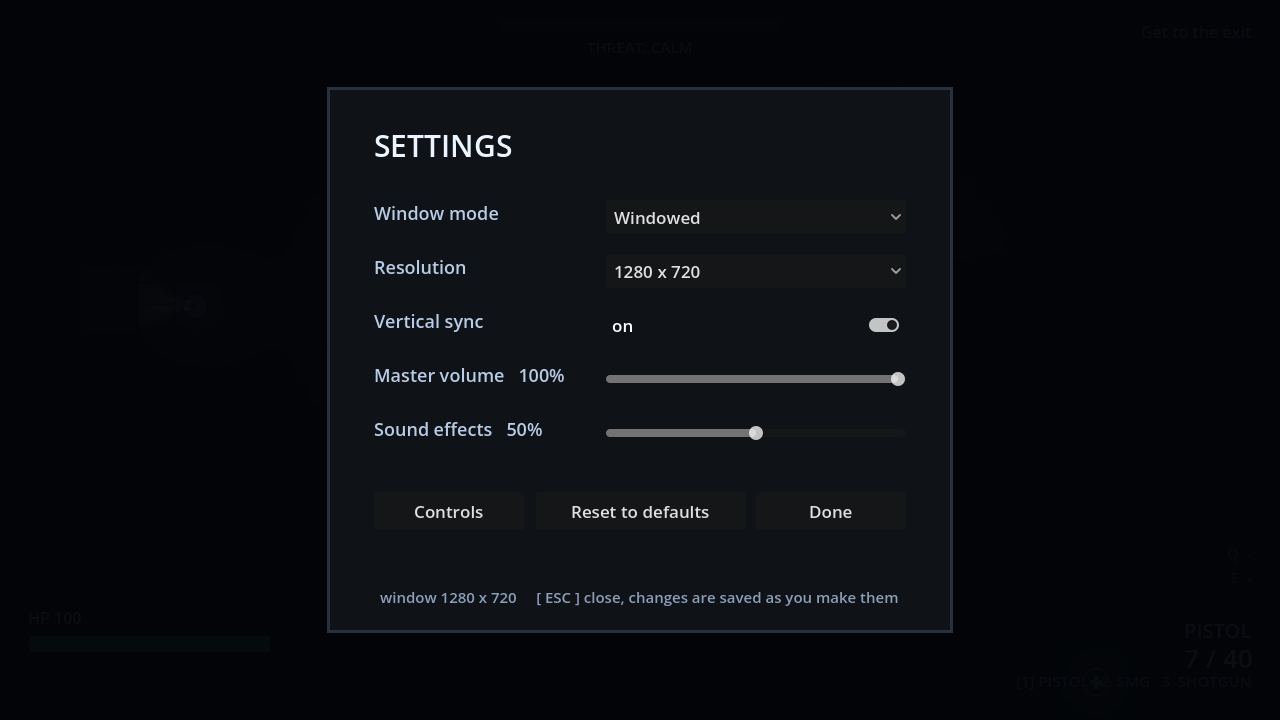
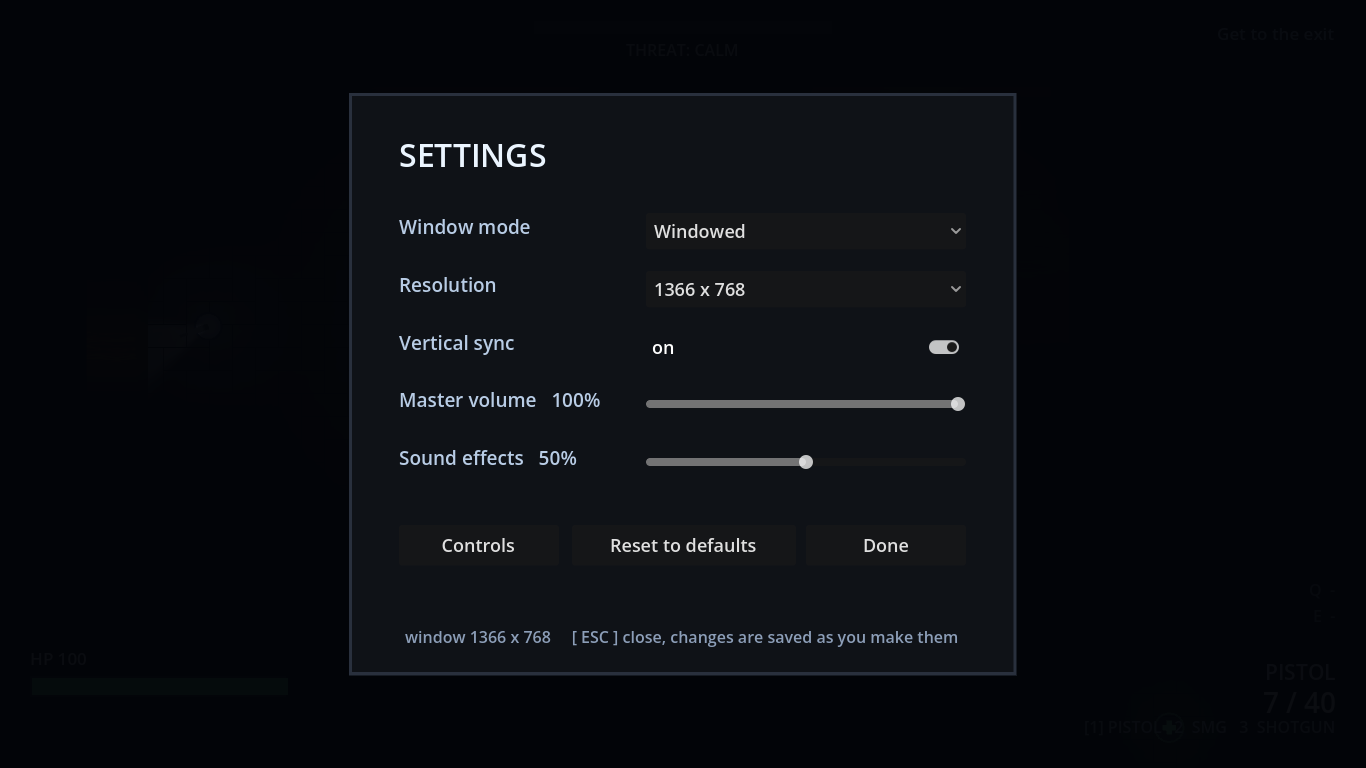
pause screen resizing fix

diff --git a/docs/DESIGN_NOTES.md b/docs/DESIGN_NOTES.md
@@ -255,6 +255,30 @@ Also worth knowing:
   handing the object back to the array or into a typed local. `_exit_tree` had the same shape.
   `--probe=door_freed_actor` kills an enemy mid-swing and asserts no dead instance is left behind; on the
   old code it reproduces the three reported errors.
+- **Sibling order is draw order, so a rebuild must not append over an open overlay.** The in-game
+  settings menu is a sibling of the HUD's `Root` control, and the title screen's menus are siblings of
+  its background. Both rebuilt their content with `add_child()`, which appends: changing resolution
+  from inside the settings menu (or just resizing) put the new root -- and the pause overlay inside it
+  -- *above* the settings panel, and on the title the opaque background covered it completely. The HUD
+  keeps `Root` at index 0 (`move_child(_root, 0)`), and the title raises any overlay it kept to the last
+  child after rebuilding. `--probe=ui_layers` asserts both, with a screenshot of each case.
+- **A layout scale derived from height does not move anything placed in pixels.** The HUD scales from
+  the window *height* alone, and the pause overlay's title and stats are anchored to the centre, so they
+  follow a resize -- but the pause buttons are a `MenuList` positioned in pixels, and they used a fixed
+  reference x (480) that only happened to be centred on a 1280-wide window. A width-only resize also
+  skipped the HUD rebuild entirely, because the scale had not changed. The menu is now placed from the
+  viewport centre (`viewport.x / scale / 2`), and any size change rebuilds. Rule: anything positioned in
+  pixels must derive its position from the viewport on every rebuild, and the rebuild cannot be gated on
+  the scale if the scale ignores one axis. `--probe=pause_resize` checks 16:9, a width-only change and
+  two odd aspects; on the old guard the width-only case is off by exactly half the added width.
+- **A signal handler must not free the control that emitted it.** The resolution dropdown emits
+  `item_selected`; its handler changes the window, which fires `size_changed` *synchronously*, and the
+  settings menu's resize handler rebuilt the panel -- freeing the dropdown while it was still emitting.
+  Godot reports "Object was freed or unreferenced while a signal is being emitted from it", which is a
+  potential crash, not just noise. The rebuild is deferred to `_process` (`_resize_pending`), which is
+  also why any size change now rebuilds, not only one that changes the scale. `--probe=settings_resize`
+  drives the dropdown's own signal; on the old code it reports `emitting button survived=false` and the
+  engine error.
 - **A physics query cannot see a body created in the same frame.** The door test's first version
   spawned a door and immediately asked `intersect_point` whether an enemy was at it; the door did
   not exist to the physics server yet, so the answer was always "nothing there" and the test read
